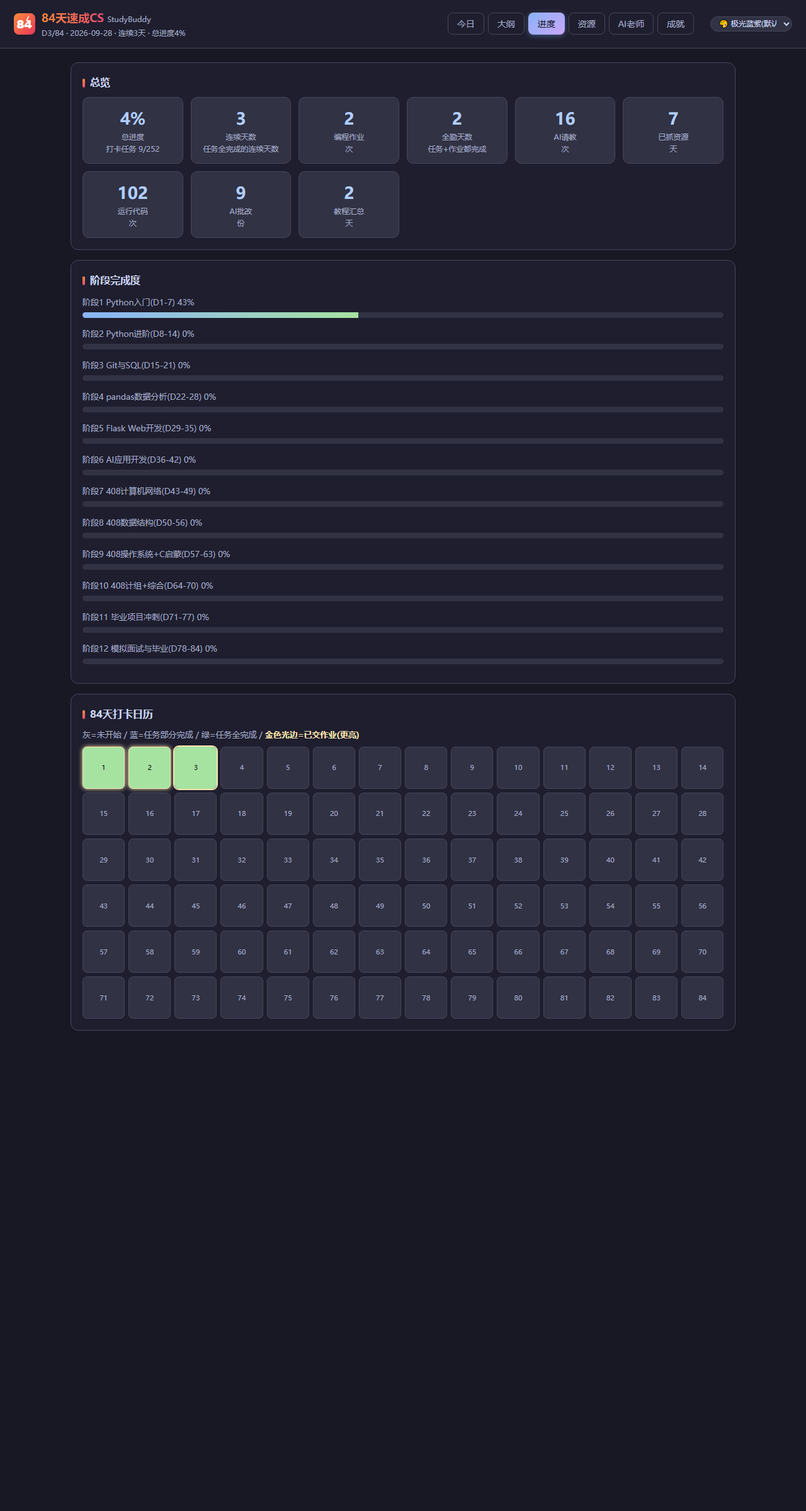
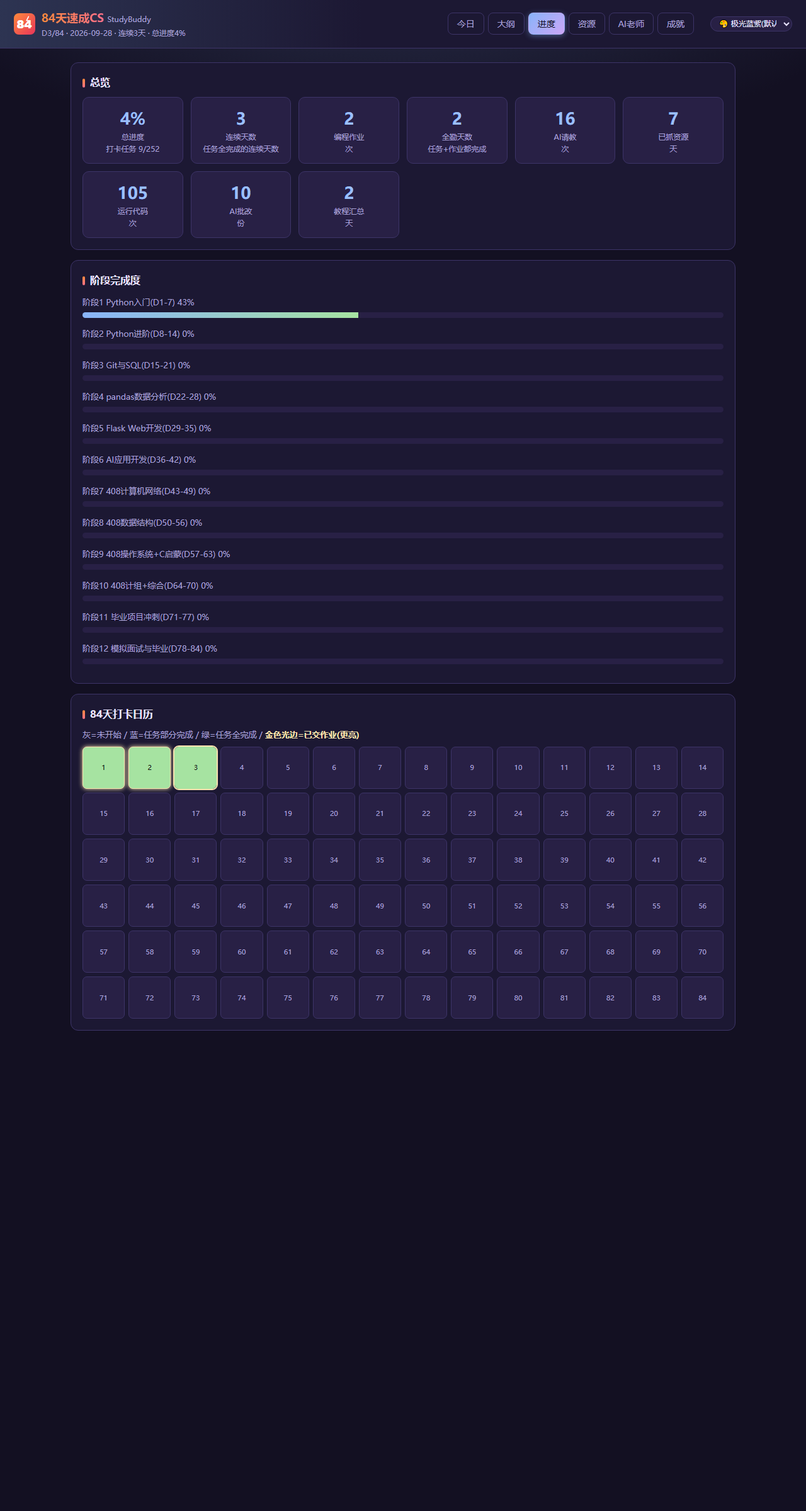
皮肤v2返工：告别灰扑扑——9套主题底色/卡片/边框全部按主色手工强染色(不再照抄调色板的中性灰底)，新增--bg2全页顶部光晕渐变+header横向主色渐变；bad等深色系语义色预烘焙过4.5防引擎洗白，accText检查面收窄保链接鲜艳；594文字对全>=4.51(45变量/主题)；4张截图重拍(meanSat:深蓝0.75/默认0.52/F6空灰带清零)

Changed region(s): [[0.0, 0.0, 0.1875, 0.0312], [0.2812, 0.125, 0.3125, 0.1562], [0.1562, 0.4688, 0.1875, 0.5]]

diff --git a/static/index.html b/static/index.html
@@ -8,128 +8,137 @@
 <style>
 /* ==== THEME-START (generated by gen_themes.js - do not edit by hand) ==== */
 :root{
-  --bg:#181825; --panel:#1e1e2e; --panel2:#313244; --line:#45475a;
-  --fg:#cdd6f4; --dim:#a6adc8; --acc:#89b4fa; --acc2:#cba6f7;
-  --btn-fg:#11111b; --acc-text:#b3cefc; --ok:#a6e3a1; --warn:#f9e2af;
-  --bad:#f38ba8; --btn-good-fg:#0b0d10; --glow:rgba(137,180,250,0.38); --h2a:#ff8a3c;
-  --h2b:#eb4d6e; --code-bg:#11111b; --partial-bg:#3a4765; --partial-fg:#cdd6f4;
-  --full-fg:#0b0d10; --exer-bg:#2f3348; --exer-line:#5d6d92; --exer-fg:#89b4fa;
-  --starter-bg:#11111b; --starter-fg:#a6e3a1; --msg-me:#4a5677; --msg-ai-bg:#444e53;
-  --msg-ai-line:#76957e; --ach-got-bg:#444e53; --toast-bg:#34413e; --toast-fg:#cdd6f4;
-  --hint-bg:#292f45; --hint-line:#677eaa; --hint-fg:#89b4fa; --wbox-bg:#3c383b;
-  --wbox-line:#a89c89; --wbox-fg:#f9e2af; --live-bg:#262b3f; --live-line:#6478a2;
-  --hwglow:#f9e2af; --dayrow-hover:#3c3d50; --out-ok:#a6e3a1; --out-err:#f38ba8;
+  --bg:#131022; --bg2:#2d3452; --panel:#1c1833; --panel2:#282045;
+  --line:#3d3468; --fg:#e9e4ff; --dim:#aaa2d8; --acc:#89b4fa;
+  --acc2:#cba6f7; --btn-fg:#131022; --acc-text:#9bbffb; --ok:#a6e3a1;
+  --warn:#f9e2af; --bad:#f38ba8; --btn-good-fg:#0b0d10; --glow:rgba(137,180,250,0.42);
+  --h2a:#ff8a3c; --h2b:#ff7089; --code-bg:#100d1d; --partial-bg:#364163;
+  --partial-fg:#e9e4ff; --full-fg:#0b0d10; --exer-bg:#2a284b; --exer-line:#58619b;
+  --exer-fg:#89b4fa; --starter-bg:#100d1d; --starter-fg:#a6e3a1; --msg-me:#434978;
+  --msg-ai-bg:#3c3f54; --msg-ai-line:#728c85; --ach-got-bg:#3c3f54; --toast-bg:#303a3b;
+  --toast-fg:#e9e4ff; --hint-bg:#252942; --hint-line:#6374b1; --hint-fg:#89b4fa;
+  --wbox-bg:#383239; --wbox-line:#a4948f; --wbox-fg:#f9e2af; --live-bg:#1b1b31;
+  --live-line:#5f6eaa; --hwglow:#f9e2af; --dayrow-hover:#362e52; --out-ok:#a6e3a1;
+  --out-err:#f38ba8;
 }
 html[data-theme="deepblue"]{
-  --bg:#2e3440; --panel:#353b49; --panel2:#3b4252; --line:#4c566a;
-  --fg:#d8dee9; --dim:#b7bfca; --acc:#88c0d0; --acc2:#81a1c1;
-  --btn-fg:#2e3440; --acc-text:#c8e2e9; --ok:#a3be8c; --warn:#ebcb8b;
-  --bad:#daa2a8; --btn-good-fg:#0b0d10; --glow:rgba(136,192,208,0.4); --h2a:#8fbcbb;
-  --h2b:#88c0d0; --code-bg:#2e3440; --partial-bg:#495e6b; --partial-fg:#d8dee9;
-  --full-fg:#0b0d10; --exer-bg:#3e4958; --exer-line:#617b8e; --exer-fg:#88c0d0;
-  --starter-bg:#2e3440; --starter-fg:#a3be8c; --msg-me:#506474; --msg-ai-bg:#4c565b;
-  --msg-ai-line:#788a7b; --ach-got-bg:#4c565b; --toast-bg:#45504f; --toast-fg:#d8dee9;
-  --hint-bg:#3c4956; --hint-line:#6a8b9d; --hint-fg:#88c0d0; --wbox-bg:#4c4c4c;
-  --wbox-line:#a3967c; --wbox-fg:#ebcb8b; --live-bg:#394551; --live-line:#678698;
-  --hwglow:#ebcb8b; --dayrow-hover:#464d5d; --out-ok:#a3be8c; --out-err:#daa2a8;
+  --bg:#081228; --bg2:#24384d; --panel:#0c1b3a; --panel2:#122752;
+  --line:#20406f; --fg:#dce8ff; --dim:#9db1d6; --acc:#88c0d0;
+  --acc2:#5e81ac; --btn-fg:#081228; --acc-text:#9bcad8; --ok:#a3be8c;
+  --warn:#ebcb8b; --bad:#ff8585; --btn-good-fg:#0b0d10; --glow:rgba(136,192,208,0.42);
+  --h2a:#8fbcbb; --h2b:#88c0d0; --code-bg:#081228; --partial-bg:#2e465a;
+  --partial-fg:#dce8ff; --full-fg:#0b0d10; --exer-bg:#192e51; --exer-line:#446d91;
+  --exer-fg:#88c0d0; --starter-bg:#081228; --starter-fg:#a3be8c; --msg-me:#335275;
+  --msg-ai-bg:#293f5b; --msg-ai-line:#627f7e; --ach-got-bg:#293f5b; --toast-bg:#27343c;
+  --toast-fg:#dce8ff; --hint-bg:#1b2c41; --hint-line:#5480a0; --hint-fg:#88c0d0;
+  --wbox-bg:#2c3038; --wbox-line:#908c7e; --wbox-fg:#ebcb8b; --live-bg:#111e34;
+  --live-line:#4f7a9b; --hwglow:#ebcb8b; --dayrow-hover:#20355e; --out-ok:#a3be8c;
+  --out-err:#ff8585;
 }
 html[data-theme="inkgreen"]{
-  --bg:#232a2e; --panel:#2d353b; --panel2:#343f44; --line:#475258;
-  --fg:#d3c6aa; --dim:#afb8af; --acc:#a7c080; --acc2:#7fbbb3;
-  --btn-fg:#232a2e; --acc-text:#bbce9c; --ok:#83c092; --warn:#dbbc7f;
-  --bad:#ef8c90; --btn-good-fg:#0b0d10; --glow:rgba(167,192,128,0.4); --h2a:#a7c080;
-  --h2b:#7fbbb3; --code-bg:#232a2e; --partial-bg:#4a5746; --partial-fg:#d3c6aa;
-  --full-fg:#0b0d10; --exer-bg:#3a4545; --exer-line:#697966; --exer-fg:#a7c080;
-  --starter-bg:#232a2e; --starter-fg:#83c092; --msg-me:#49564f; --msg-ai-bg:#415450;
-  --msg-ai-line:#658975; --ach-got-bg:#415450; --toast-bg:#364842; --toast-fg:#d3c6aa;
-  --hint-bg:#37413a; --hint-line:#77896c; --hint-fg:#a7c080; --wbox-bg:#40413b;
-  --wbox-line:#988c6d; --wbox-fg:#dbbc7f; --live-bg:#333c38; --live-line:#72846a;
-  --hwglow:#dbbc7f; --dayrow-hover:#3f484b; --out-ok:#83c092; --out-err:#ef8c90;
+  --bg:#0c1610; --bg2:#2e3b29; --panel:#11241a; --panel2:#183426;
+  --line:#2a5038; --fg:#e0f2dd; --dim:#a6bfa8; --acc:#a7c080;
+  --acc2:#7fbbb3; --btn-fg:#0c1610; --acc-text:#bdd0a0; --ok:#83c092;
+  --warn:#dbbc7f; --bad:#ef8a8e; --btn-good-fg:#0b0d10; --glow:rgba(167,192,128,0.42);
+  --h2a:#a7c080; --h2b:#7fbbb3; --code-bg:#0c1610; --partial-bg:#3b4932;
+  --partial-fg:#e0f2dd; --full-fg:#0b0d10; --exer-bg:#203828; --exer-line:#567751;
+  --exer-fg:#a7c080; --starter-bg:#0c1610; --starter-fg:#83c092; --msg-me:#405b3f;
+  --msg-ai-bg:#294a37; --msg-ai-line:#578865; --ach-got-bg:#294a37; --toast-bg:#24382a;
+  --toast-fg:#e0f2dd; --hint-bg:#233021; --hint-line:#69885c; --hint-fg:#a7c080;
+  --wbox-bg:#2d3122; --wbox-line:#8b8b5f; --wbox-fg:#dbbc7f; --live-bg:#172218;
+  --live-line:#628258; --hwglow:#dbbc7f; --dayrow-hover:#264133; --out-ok:#83c092;
+  --out-err:#ef8a8e;
 }
 html[data-theme="lavender"]{
-  --bg:#181926; --panel:#24273a; --panel2:#363a4f; --line:#494d64;
-  --fg:#cad3f5; --dim:#abb3cf; --acc:#b7bdf8; --acc2:#c6a0f6;
-  --btn-fg:#181926; --acc-text:#cdd1fa; --ok:#a6da95; --warn:#eed49f;
-  --bad:#ed8796; --btn-good-fg:#0b0d10; --glow:rgba(183,189,248,0.4); --h2a:#b7bdf8;
-  --h2b:#f5bde6; --code-bg:#181926; --partial-bg:#484a65; --partial-fg:#cad3f5;
-  --full-fg:#0b0d10; --exer-bg:#383c53; --exer-line:#707498; --exer-fg:#b7bdf8;
-  --starter-bg:#181926; --starter-fg:#a6da95; --msg-me:#555a78; --msg-ai-bg:#48545a;
-  --msg-ai-line:#78947d; --ach-got-bg:#48545a; --toast-bg:#34403c; --toast-fg:#cad3f5;
-  --hint-bg:#303246; --hint-line:#8085ae; --hint-fg:#b7bdf8; --wbox-bg:#3a3739;
-  --wbox-line:#a49784; --wbox-fg:#eed49f; --live-bg:#2b2d3f; --live-line:#7b7fa7;
-  --hwglow:#eed49f; --dayrow-hover:#40455b; --out-ok:#a6da95; --out-err:#ed8796;
+  --bg:#151129; --bg2:#393757; --panel:#1e1940; --panel2:#2b2360;
+  --line:#433a85; --fg:#e8e2ff; --dim:#aea6dd; --acc:#b7bdf8;
+  --acc2:#c6a0f6; --btn-fg:#151129; --acc-text:#c2c7f9; --ok:#a6da95;
+  --warn:#eed49f; --bad:#ed8796; --btn-good-fg:#0b0d10; --glow:rgba(183,189,248,0.42);
+  --h2a:#b7bdf8; --h2b:#f5bde6; --code-bg:#151129; --partial-bg:#464567;
+  --partial-fg:#e8e2ff; --full-fg:#0b0d10; --exer-bg:#302b5d; --exer-line:#6c68ad;
+  --exer-fg:#b7bdf8; --starter-bg:#151129; --starter-fg:#a6da95; --msg-me:#524e8b;
+  --msg-ai-bg:#3f4068; --msg-ai-line:#758a8d; --ach-got-bg:#3f4068; --toast-bg:#32393f;
+  --toast-fg:#e8e2ff; --hint-bg:#2d2b48; --hint-line:#7d7cbf; --hint-fg:#b7bdf8;
+  --wbox-bg:#38303c; --wbox-line:#a18f93; --wbox-fg:#eed49f; --live-bg:#201d37;
+  --live-line:#7775b9; --hwglow:#eed49f; --dayrow-hover:#38306b; --out-ok:#a6da95;
+  --out-err:#ed8796;
 }
 html[data-theme="morandi"]{
-  --bg:#232634; --panel:#303446; --panel2:#414559; --line:#51576d;
-  --fg:#c6d0f5; --dim:#bbc1da; --acc:#8caaee; --acc2:#ca9ee6;
-  --btn-fg:#232634; --acc-text:#c1d1f6; --ok:#a6d189; --warn:#e5c890;
-  --bad:#eda0a1; --btn-good-fg:#0b0d10; --glow:rgba(140,170,238,0.38); --h2a:#8caaee;
-  --h2b:#ca9ee6; --code-bg:#232634; --partial-bg:#434e6c; --partial-fg:#c6d0f5;
-  --full-fg:#0b0d10; --exer-bg:#3f455c; --exer-line:#66749a; --exer-fg:#a9bdf2;
-  --starter-bg:#232634; --starter-fg:#a6d189; --msg-me:#505976; --msg-ai-bg:#515b61;
-  --msg-ai-line:#7c947b; --ach-got-bg:#515b61; --toast-bg:#3d4845; --toast-fg:#c6d0f5;
-  --hint-bg:#333a50; --hint-line:#6f81ae; --hint-fg:#8caaee; --wbox-bg:#424043;
-  --wbox-line:#a29580; --wbox-fg:#e5c890; --live-bg:#30364a; --live-line:#6c7ca7;
-  --hwglow:#e5c890; --dayrow-hover:#4a4f64; --out-ok:#a6d189; --out-err:#eda0a1;
+  --bg:#1b1d2c; --bg2:#343c57; --panel:#252840; --panel2:#313454;
+  --line:#474b7e; --fg:#d8dcf7; --dim:#aab0d8; --acc:#8caaee;
+  --acc2:#ca9ee6; --btn-fg:#1b1d2c; --acc-text:#bccdf5; --ok:#a6d189;
+  --warn:#e5c890; --bad:#f09390; --btn-good-fg:#0b0d10; --glow:rgba(140,170,238,0.4);
+  --h2a:#8caaee; --h2b:#ca9ee6; --code-bg:#1b1d2c; --partial-bg:#3d4766;
+  --partial-fg:#d8dcf7; --full-fg:#0b0d10; --exer-bg:#333857; --exer-line:#5f6ca5;
+  --exer-fg:#8caaee; --starter-bg:#1b1d2c; --starter-fg:#a6d189; --msg-me:#4a557f;
+  --msg-ai-bg:#444d5c; --msg-ai-line:#778e84; --ach-got-bg:#444d5c; --toast-bg:#37413f;
+  --toast-fg:#d8dcf7; --hint-bg:#2c3249; --hint-line:#6a7bb6; --hint-fg:#8caaee;
+  --wbox-bg:#3b383c; --wbox-line:#9e9088; --wbox-fg:#e5c890; --live-bg:#23273a;
+  --live-line:#6676b0; --hwglow:#e5c890; --dayrow-hover:#3d405f; --out-ok:#a6d189;
+  --out-err:#f09390;
 }
 html[data-theme="mono"]{
-  --bg:#0d1117; --panel:#161b22; --panel2:#21262d; --line:#30363d;
-  --fg:#e6edf3; --dim:#949da6; --acc:#f0f6fc; --acc2:#8b949e;
-  --btn-fg:#0d1117; --acc-text:#f0f6fc; --ok:#3fb950; --warn:#d29922;
-  --bad:#f96059; --btn-good-fg:#0b0d10; --glow:rgba(240,246,252,0.22); --h2a:#f0f6fc;
-  --h2b:#8b949e; --code-bg:#010409; --partial-bg:#51565c; --partial-fg:#e6edf3;
-  --full-fg:#0b0d10; --exer-bg:#2d3239; --exer-line:#737980; --exer-fg:#f0f6fc;
-  --starter-bg:#010409; --starter-fg:#3fb950; --msg-me:#5b6067; --msg-ai-bg:#263e33;
-  --msg-ai-line:#387847; --ach-got-bg:#263e33; --toast-bg:#173322; --toast-fg:#e6edf3;
-  --hint-bg:#2f3339; --hint-line:#90969d; --hint-fg:#f0f6fc; --wbox-bg:#2d2719;
-  --wbox-line:#896c2e; --wbox-fg:#d29922; --live-bg:#282c32; --live-line:#868c93;
-  --hwglow:#d29922; --dayrow-hover:#2f343b; --out-ok:#3fb950; --out-err:#f96059;
+  --bg:#0a0c10; --bg2:#3d3f44; --panel:#13171d; --panel2:#1d232c;
+  --line:#2f3743; --fg:#f1f4f8; --dim:#a6aeb8; --acc:#f0f6fc;
+  --acc2:#8b949e; --btn-fg:#0a0c10; --acc-text:#f0f6fc; --ok:#3fb950;
+  --warn:#d29922; --bad:#f85149; --btn-good-fg:#0b0d10; --glow:rgba(240,246,252,0.2);
+  --h2a:#f0f6fc; --h2b:#a8b0ba; --code-bg:#07090c; --partial-bg:#4f5257;
+  --partial-fg:#f1f4f8; --full-fg:#0b0d10; --exer-bg:#292e36; --exer-line:#737a84;
+  --exer-fg:#f0f6fc; --starter-bg:#07090c; --starter-fg:#3fb950; --msg-me:#585e66;
+  --msg-ai-bg:#223b32; --msg-ai-line:#37784a; --ach-got-bg:#223b32; --toast-bg:#152f1d;
+  --toast-fg:#f1f4f8; --hint-bg:#2d2f33; --hint-line:#9097a0; --hint-fg:#f0f6fc;
+  --wbox-bg:#2a2313; --wbox-line:#896d31; --wbox-fg:#d29922; --live-bg:#1a1c21;
+  --live-line:#868d96; --hwglow:#d29922; --dayrow-hover:#2c323a; --out-ok:#3fb950;
+  --out-err:#f85149;
 }
 html[data-theme="gold"]{
-  --bg:#282828; --panel:#32302f; --panel2:#3c3836; --line:#504945;
-  --fg:#ebdbb2; --dim:#bcb0a0; --acc:#fabd2f; --acc2:#fe8019;
-  --btn-fg:#1d2021; --acc-text:#fcd780; --ok:#b8bb26; --warn:#d79921;
-  --bad:#fc8071; --btn-good-fg:#0b0d10; --glow:rgba(250,189,47,0.4); --h2a:#fabd2f;
-  --h2b:#fe8019; --code-bg:#1d2021; --partial-bg:#67552a; --partial-fg:#ebdbb2;
-  --full-fg:#0b0d10; --exer-bg:#473f32; --exer-line:#8c723d; --exer-fg:#fabd2f;
-  --starter-bg:#1d2021; --starter-fg:#b8bb26; --msg-me:#715d34; --msg-ai-bg:#504d33;
-  --msg-ai-line:#848236; --ach-got-bg:#504d33; --toast-bg:#454528; --toast-fg:#ebdbb2;
-  --hint-bg:#483e29; --hint-line:#a5833a; --hint-fg:#fabd2f; --wbox-bg:#443a27;
-  --wbox-line:#9a7531; --wbox-fg:#e1ba6a; --live-bg:#413a29; --live-line:#9d7d3b;
-  --hwglow:#d79921; --dayrow-hover:#48433f; --out-ok:#b8bb26; --out-err:#fc8071;
+  --bg:#171004; --bg2:#49360d; --panel:#231a08; --panel2:#32250d;
+  --line:#52401a; --fg:#f8e9c2; --dim:#c9b687; --acc:#fabd2f;
+  --acc2:#fe8019; --btn-fg:#171004; --acc-text:#fabf35; --ok:#b8bb26;
+  --warn:#d79921; --bad:#ff7d68; --btn-good-fg:#0b0d10; --glow:rgba(250,189,47,0.45);
+  --h2a:#fabd2f; --h2b:#fe8019; --code-bg:#120c03; --partial-bg:#5b4411;
+  --partial-fg:#f8e9c2; --full-fg:#0b0d10; --exer-bg:#3b2c0d; --exer-line:#8d6c21;
+  --exer-fg:#fabd2f; --starter-bg:#120c03; --starter-fg:#b8bb26; --msg-me:#6a5017;
+  --msg-ai-bg:#473d11; --msg-ai-line:#857e20; --ach-got-bg:#473d11; --toast-bg:#37320b;
+  --toast-fg:#f8e9c2; --hint-bg:#392a0a; --hint-line:#a67f25; --hint-fg:#fabd2f;
+  --wbox-bg:#362609; --wbox-line:#9b711e; --wbox-fg:#d79921; --live-bg:#271c07;
+  --live-line:#9e7823; --hwglow:#d79921; --dayrow-hover:#40331a; --out-ok:#b8bb26;
+  --out-err:#ff7d68;
 }
 html[data-theme="wine"]{
-  --bg:#21222c; --panel:#282a36; --panel2:#343746; --line:#44475a;
-  --fg:#f8f8f2; --dim:#a9b2cd; --acc:#ff5555; --acc2:#ff79c6;
-  --btn-fg:#0b0d10; --acc-text:#ffaeae; --ok:#50fa7b; --warn:#f1fa8c;
-  --bad:#ff7676; --btn-good-fg:#0b0d10; --glow:rgba(255,85,85,0.4); --h2a:#ff5656;
-  --h2b:#ff79c6; --code-bg:#191a21; --partial-bg:#643138; --partial-fg:#f8f8f2;
-  --full-fg:#0b0d10; --exer-bg:#3f3340; --exer-line:#854c58; --exer-fg:#fca7a4;
-  --starter-bg:#191a21; --starter-fg:#50fa7b; --msg-me:#6d3f4a; --msg-ai-bg:#38564e;
-  --msg-ai-line:#4aa16b; --ach-got-bg:#38564e; --toast-bg:#2a4d3c; --toast-fg:#f8f8f2;
-  --hint-bg:#422a32; --hint-line:#a24e58; --hint-fg:#fca7a4; --wbox-bg:#42453b;
-  --wbox-line:#a3a976; --wbox-fg:#f1fa8c; --live-bg:#3c2831; --live-line:#984d58;
-  --hwglow:#f1fa8c; --dayrow-hover:#424552; --out-ok:#50fa7b; --out-err:#ff7676;
+  --bg:#190a0e; --bg2:#4c1b1e; --panel:#250f16; --panel2:#35151f;
+  --line:#5c2632; --fg:#ffe4e7; --dim:#d3a0a6; --acc:#ff5555;
+  --acc2:#ff79c6; --btn-fg:#190a0e; --acc-text:#ff8787; --ok:#50fa7b;
+  --warn:#f1fa8c; --bad:#ff8585; --btn-good-fg:#0b0d10; --glow:rgba(255,85,85,0.42);
+  --h2a:#ff6b6b; --h2b:#ff79c6; --code-bg:#140809; --partial-bg:#5e2123;
+  --partial-fg:#ffe4e7; --full-fg:#0b0d10; --exer-bg:#3e171f; --exer-line:#95363e;
+  --exer-fg:#ff5555; --starter-bg:#140809; --starter-fg:#50fa7b; --msg-me:#6e272e;
+  --msg-ai-bg:#393a2e; --msg-ai-line:#569057; --ach-got-bg:#393a2e; --toast-bg:#243a24;
+  --toast-fg:#ffe4e7; --hint-bg:#3c1519; --hint-line:#ae3e44; --hint-fg:#ff5555;
+  --wbox-bg:#3c3022; --wbox-line:#ae9b64; --wbox-fg:#f1fa8c; --live-bg:#290f13;
+  --live-line:#a53b42; --hwglow:#f1fa8c; --dayrow-hover:#43232d; --out-ok:#50fa7b;
+  --out-err:#ff8585;
 }
 html[data-theme="champagne"]{
-  --bg:#f4f0d9; --panel:#fdf6e3; --panel2:#efebd4; --line:#ddd2b8;
-  --fg:#3a332a; --dim:#6a6051; --acc:#b08d57; --acc2:#d4b483;
-  --btn-fg:#2a2113; --acc-text:#69573c; --ok:#496e4d; --warn:#7b6221;
-  --bad:#a14c40; --btn-good-fg:#ffffff; --glow:rgba(176,141,87,0.35); --h2a:#816945;
-  --h2b:#876738; --code-bg:#fdfbf6; --partial-bg:#e0d2b2; --partial-fg:#3a332a;
-  --full-fg:#ffffff; --exer-bg:#f0e9d1; --exer-line:#cdba96; --exer-fg:#756041;
-  --starter-bg:#fdfbf6; --starter-fg:#496e4d; --msg-me:#ddd1b1; --msg-ai-bg:#d4d7be;
-  --msg-ai-line:#93a083; --ach-got-bg:#d4d7be; --toast-bg:#d2d6bd; --toast-fg:#3a332a;
-  --hint-bg:#eae1c6; --hint-line:#c7b088; --hint-fg:#756041; --wbox-bg:#e1d9bc;
-  --wbox-line:#a79565; --wbox-fg:#5b4b26; --live-bg:#ece4c9; --live-line:#c9b38c;
-  --hwglow:#7b6221; --dayrow-hover:#e2dec8; --out-ok:#496e4d; --out-err:#a14c40;
+  --bg:#f7f0d7; --bg2:#e7dabb; --panel:#fffbee; --panel2:#f2e9cd;
+  --line:#dccca0; --fg:#3f3423; --dim:#665a40; --acc:#b08d57;
+  --acc2:#d4b483; --btn-fg:#2a2113; --acc-text:#6a5637; --ok:#42634a;
+  --warn:#75601f; --bad:#9c4a3e; --btn-good-fg:#ffffff; --glow:rgba(176,141,87,0.4);
+  --h2a:#6f5b3a; --h2b:#7c592c; --code-bg:#fdfaf1; --partial-bg:#e2d2b1;
+  --partial-fg:#3f3423; --full-fg:#ffffff; --exer-bg:#f3ead3; --exer-line:#cdb686;
+  --exer-fg:#78613d; --starter-bg:#fdfaf1; --starter-fg:#42634a; --msg-me:#e0cfac;
+  --msg-ai-bg:#d6d4b8; --msg-ai-line:#8f9875; --ach-got-bg:#d6d4b8; --toast-bg:#d3d4bb;
+  --toast-fg:#3f3423; --hint-bg:#ece1c4; --hint-line:#c6ad7c; --hint-fg:#78613d;
+  --wbox-bg:#e2d9ba; --wbox-line:#a39159; --wbox-fg:#5a4a21; --live-bg:#f2e9ce;
+  --live-line:#c8b07f; --hwglow:#75601f; --dayrow-hover:#e5dcc1; --out-ok:#42634a;
+  --out-err:#9c4a3e;
 }
 /* ==== THEME-END ==== */
 *{box-sizing:border-box;margin:0;padding:0}
-body{background:var(--bg);color:var(--fg);font:15px/1.6 "Microsoft YaHei",system-ui,sans-serif}
+body{background:radial-gradient(1200px 560px at 50% -140px,var(--bg2) 0%,var(--bg) 70%);background-attachment:fixed;color:var(--fg);font:15px/1.6 "Microsoft YaHei",system-ui,sans-serif}
 a{color:var(--acc-text);text-decoration:none}
 a:hover{text-decoration:underline}
-header{display:flex;align-items:center;gap:16px;padding:14px 22px;background:var(--panel);border-bottom:1px solid var(--line);position:sticky;top:0;z-index:5}
+header{display:flex;align-items:center;gap:16px;padding:14px 22px;background:linear-gradient(90deg,var(--bg2),var(--panel) 45%);border-bottom:1px solid var(--line);position:sticky;top:0;z-index:5}
 header h1{font-size:18px}
 header .sub{color:var(--dim);font-size:12px}
 nav{display:flex;gap:6px;margin-left:auto}

diff --git a/gen_themes.js b/gen_themes.js
@@ -21,19 +21,23 @@ const mix = (a, b, p) => a.map((v, i) => v + (b[i] - v) * p);
 const DARK = hx('#0b0d10'), WHITE = hx('#ffffff');
 const rgba = (c, a) => `rgba(${c[0]},${c[1]},${c[2]},${a})`;
 
-// ---------- palettes (hex from official sources) ----------
-// Catppuccin Mocha / Nord(dev) / Everforest Dark / Catppuccin Macchiato /
-// Catppuccin Frappe / GitHub Primer Dark / Gruvbox Dark / Dracula / Solarized-warm light
+// ---------- palettes + strongly tinted surfaces ----------
+// Accents/semantic colors from official palettes (Catppuccin Mocha/Macchiato/Frappe,
+// Nord, Everforest, GitHub Primer Dark, Gruvbox, Dracula, Solarized).
+// SURFACES (bg/panel/panel2/line) are deliberately pushed hard toward each theme's
+// hue (hand-tinted, low luminance) so skins read as clearly COLORED, not gray.
+// Dark-surface semantic colors are pre-baked light enough to pass 4.5:1 so the
+// engine never gray-washes them. bg2 = full-page radial glow + header gradient.
 const SPECS = {
-  root: { label: 'default Mocha', bg: '#181825', panel: '#1e1e2e', panel2: '#313244', line: '#45475a', fg: '#cdd6f4', dim: '#a6adc8', acc: '#89b4fa', acc2: '#cba6f7', btnFg: '#11111b', ok: '#a6e3a1', warn: '#f9e2af', bad: '#f38ba8', h2a: '#ff8a3c', h2b: '#e8355a', codeBg: '#11111b', glowA: 0.38 },
-  deepblue: { label: 'Nord', bg: '#2e3440', panel: '#353b49', panel2: '#3b4252', line: '#4c566a', fg: '#d8dee9', dim: '#9aa5b5', acc: '#88c0d0', acc2: '#81a1c1', btnFg: '#2e3440', ok: '#a3be8c', warn: '#ebcb8b', bad: '#bf616a', h2a: '#8fbcbb', h2b: '#88c0d0', glowA: 0.40 },
-  inkgreen: { label: 'Everforest', bg: '#232a2e', panel: '#2d353b', panel2: '#343f44', line: '#475258', fg: '#d3c6aa', dim: '#a6b0a6', acc: '#a7c080', acc2: '#7fbbb3', btnFg: '#232a2e', ok: '#83c092', warn: '#dbbc7f', bad: '#ef8a8e', h2a: '#a7c080', h2b: '#7fbbb3', glowA: 0.40 },
-  lavender: { label: 'Macchiato', bg: '#181926', panel: '#24273a', panel2: '#363a4f', line: '#494d64', fg: '#cad3f5', dim: '#a5adcb', acc: '#b7bdf8', acc2: '#c6a0f6', btnFg: '#181926', ok: '#a6da95', warn: '#eed49f', bad: '#ed8796', h2a: '#b7bdf8', h2b: '#f5bde6', glowA: 0.40 },
-  morandi: { label: 'Frappe', bg: '#232634', panel: '#303446', panel2: '#414559', line: '#51576d', fg: '#c6d0f5', dim: '#a5adce', acc: '#8caaee', acc2: '#ca9ee6', btnFg: '#232634', ok: '#a6d189', warn: '#e5c890', bad: '#e78284', h2a: '#8caaee', h2b: '#ca9ee6', glowA: 0.38 },
-  mono: { label: 'PrimerDark', bg: '#0d1117', panel: '#161b22', panel2: '#21262d', line: '#30363d', fg: '#e6edf3', dim: '#8b949e', acc: '#f0f6fc', acc2: '#8b949e', btnFg: '#0d1117', ok: '#3fb950', warn: '#d29922', bad: '#f85149', h2a: '#f0f6fc', h2b: '#8b949e', codeBg: '#010409', glowA: 0.22 },
-  gold: { label: 'Gruvbox', bg: '#282828', panel: '#32302f', panel2: '#3c3836', line: '#504945', fg: '#ebdbb2', dim: '#a89984', acc: '#fabd2f', acc2: '#fe8019', btnFg: '#1d2021', ok: '#b8bb26', warn: '#d79921', bad: '#fb4934', h2a: '#fabd2f', h2b: '#fe8019', codeBg: '#1d2021', glowA: 0.40 },
-  wine: { label: 'Dracula', bg: '#21222c', panel: '#282a36', panel2: '#343746', line: '#44475a', fg: '#f8f8f2', dim: '#6272a4', acc: '#ff5555', acc2: '#ff79c6', btnFg: '#0b0d10', ok: '#50fa7b', warn: '#f1fa8c', bad: '#ff5555', h2a: '#ff5555', h2b: '#ff79c6', codeBg: '#191a21', glowA: 0.40 },
-  champagne: { label: 'SolarizedWarm', bg: '#f4f0d9', panel: '#fdf6e3', panel2: '#efebd4', line: '#ddd2b8', fg: '#3a332a', dim: '#8a7f6c', acc: '#b08d57', acc2: '#d4b483', btnFg: '#2a2113', ok: '#4a7350', warn: '#8a6d1f', bad: '#ab4f42', h2a: '#b08d57', h2b: '#a67c3d', codeBg: '#fdfbf6', glowA: 0.35 }
+  root: { label: 'MochaViolet', bg: '#131022', panel: '#1c1833', panel2: '#282045', line: '#3d3468', fg: '#e9e4ff', dim: '#aaa2d8', acc: '#89b4fa', acc2: '#cba6f7', btnFg: '#131022', ok: '#a6e3a1', warn: '#f9e2af', bad: '#f38ba8', h2a: '#ff8a3c', h2b: '#ff7089', codeBg: '#100d1d', glowA: 0.42 },
+  deepblue: { label: 'NordNavy', bg: '#081228', panel: '#0c1b3a', panel2: '#122752', line: '#20406f', fg: '#dce8ff', dim: '#9db1d6', acc: '#88c0d0', acc2: '#5e81ac', btnFg: '#081228', ok: '#a3be8c', warn: '#ebcb8b', bad: '#ff8585', h2a: '#8fbcbb', h2b: '#88c0d0', glowA: 0.42 },
+  inkgreen: { label: 'Forest', bg: '#0c1610', panel: '#11241a', panel2: '#183426', line: '#2a5038', fg: '#e0f2dd', dim: '#a6bfa8', acc: '#a7c080', acc2: '#7fbbb3', btnFg: '#0c1610', ok: '#83c092', warn: '#dbbc7f', bad: '#ef8a8e', h2a: '#a7c080', h2b: '#7fbbb3', glowA: 0.42 },
+  lavender: { label: 'Violet', bg: '#151129', panel: '#1e1940', panel2: '#2b2360', line: '#433a85', fg: '#e8e2ff', dim: '#aea6dd', acc: '#b7bdf8', acc2: '#c6a0f6', btnFg: '#151129', ok: '#a6da95', warn: '#eed49f', bad: '#ed8796', h2a: '#b7bdf8', h2b: '#f5bde6', glowA: 0.42 },
+  morandi: { label: 'DustyBlue', bg: '#1b1d2c', panel: '#252840', panel2: '#313454', line: '#474b7e', fg: '#d8dcf7', dim: '#aab0d8', acc: '#8caaee', acc2: '#ca9ee6', btnFg: '#1b1d2c', ok: '#a6d189', warn: '#e5c890', bad: '#f09390', h2a: '#8caaee', h2b: '#ca9ee6', glowA: 0.40 },
+  mono: { label: 'Neutral', bg: '#0a0c10', panel: '#13171d', panel2: '#1d232c', line: '#2f3743', fg: '#f1f4f8', dim: '#a6aeb8', acc: '#f0f6fc', acc2: '#8b949e', btnFg: '#0a0c10', ok: '#3fb950', warn: '#d29922', bad: '#f85149', h2a: '#f0f6fc', h2b: '#a8b0ba', codeBg: '#07090c', glowA: 0.20 },
+  gold: { label: 'GoldenBrown', bg: '#171004', panel: '#231a08', panel2: '#32250d', line: '#52401a', fg: '#f8e9c2', dim: '#c9b687', acc: '#fabd2f', acc2: '#fe8019', btnFg: '#171004', ok: '#b8bb26', warn: '#d79921', bad: '#ff7d68', h2a: '#fabd2f', h2b: '#fe8019', codeBg: '#120c03', glowA: 0.45 },
+  wine: { label: 'WineRed', bg: '#190a0e', panel: '#250f16', panel2: '#35151f', line: '#5c2632', fg: '#ffe4e7', dim: '#d3a0a6', acc: '#ff5555', acc2: '#ff79c6', btnFg: '#190a0e', ok: '#50fa7b', warn: '#f1fa8c', bad: '#ff8585', h2a: '#ff6b6b', h2b: '#ff79c6', codeBg: '#140809', glowA: 0.42 },
+  champagne: { label: 'GoldenCream', bg: '#f7f0d7', panel: '#fffbee', panel2: '#f2e9cd', line: '#dccca0', fg: '#3f3423', dim: '#665a40', acc: '#b08d57', acc2: '#d4b483', btnFg: '#2a2113', ok: '#42634a', warn: '#75601f', bad: '#9c4a3e', h2a: '#6f5b3a', h2b: '#7d5a2c', codeBg: '#fdfaf1', glowA: 0.40 }
 };
 
 // ---------- engine ----------
@@ -73,9 +77,9 @@ function build(key, sp) {
     return best;
   };
 
-  // a) static + liveBg
+  // a) static + liveBg (small acc mix: keeps surface dark so red text stays vivid)
   S.codeBg = S.codeBg || bg;
-  S.liveBg = surf(p => mix(bg, S.acc, p), 0.12);
+  S.liveBg = surf(p => mix(bg, S.acc, p), 0.07);
   const TXT = [bg, S.panel, S.panel2, S.codeBg, S.liveBg];
 
   // b) semantic text colors first (later surfaces depend on them)
@@ -84,6 +88,7 @@ function build(key, sp) {
   S.bad = fix('bad', S.bad, TXT);
 
   // c) remaining derived surfaces (fg must stay >= 4.5 on each)
+  S.bg2 = surf(p => mix(bg, S.acc, p), 0.22);     // page glow + header gradient wash
   S.partialBg = surf(p => mix(bg, S.acc, p), 0.30);
   S.exerBg = surf(p => mix(mix(S.panel, S.panel2, 0.5), S.acc, p), 0.08);
   S.msgMe = surf(p => mix(S.panel2, S.acc, p), 0.28);
@@ -95,11 +100,11 @@ function build(key, sp) {
   S.dayrowHover = surf(p => mix(S.panel2, fg, p), 0.07);
   S.starterBg = S.codeBg;
 
-  // d) dim / h2 gradient text
-  const DIM_S = [bg, S.panel, S.panel2, S.codeBg, S.liveBg, S.dayrowHover, S.exerBg];
+  // d) dim / h2 gradient text (brand text sits on header bg2 wash)
+  const DIM_S = [bg, S.panel, S.panel2, S.codeBg, S.liveBg, S.dayrowHover, S.exerBg, S.bg2];
   S.dim = fix('dim', S.dim, DIM_S);
-  S.h2a = fix('h2a', S.h2a, [S.panel, bg]);
-  S.h2b = fix('h2b', S.h2b, [S.panel, bg]);
+  S.h2a = fix('h2a', S.h2a, [S.panel, bg, S.bg2]);
+  S.h2b = fix('h2b', S.h2b, [S.panel, bg, S.bg2]);
 
   // e) borders / tints
   S.exerLine = mix(S.line, S.acc, 0.35);
@@ -110,8 +115,10 @@ function build(key, sp) {
   S.hwglow = S.warn;
   S.glow = rgba(S.acc, S.glowA);
 
-  // f) accent-as-text (links etc) - must pass on every surface it can appear on
-  const ACC_S = [bg, S.panel, S.panel2, S.codeBg, S.liveBg, S.dayrowHover, S.exerBg, S.msgMe, S.msgAiBg, S.hintBg, S.wboxBg, S.toastBg, S.achGotBg, S.partialBg, S.starterBg];
+  // f) accent-as-text (links etc) - only surfaces where links actually appear
+  //    (NOT partialBg/starterBg: calendar cells and code blocks hold no links,
+  //     including them would gray-wash accText through the 4.55 margin)
+  const ACC_S = [bg, S.panel, S.panel2, S.codeBg, S.liveBg, S.dayrowHover, S.exerBg, S.msgMe, S.msgAiBg, S.hintBg, S.wboxBg, S.toastBg, S.achGotBg, S.bg2];
   S.accText = fix('accText', S.acc, ACC_S);
 
   // g) specialty text colors (chain ends at fg where fg is guaranteed on that surface)
@@ -141,7 +148,7 @@ function build(key, sp) {
   // i) pair report
   const pairs = [];
   const add = (name, t, b) => pairs.push({ name, t, b, r: cr(t, b) });
-  const FG_S = [bg, S.panel, S.panel2, S.codeBg, S.liveBg, S.dayrowHover, S.exerBg, S.starterBg, S.msgMe, S.msgAiBg, S.achGotBg, S.partialBg, S.toastBg, S.hintBg, S.wboxBg];
+  const FG_S = [bg, S.panel, S.panel2, S.codeBg, S.liveBg, S.dayrowHover, S.exerBg, S.starterBg, S.msgMe, S.msgAiBg, S.achGotBg, S.partialBg, S.toastBg, S.hintBg, S.wboxBg, S.bg2];
   FG_S.forEach((s, i) => add(`fg@s${i}`, fg, s));
   DIM_S.forEach((s, i) => add(`dim@s${i}`, S.dim, s));
   ACC_S.forEach((s, i) => add(`accText@s${i}`, S.accText, s));
@@ -157,7 +164,7 @@ function build(key, sp) {
 }
 
 // ---------- CSS emission ----------
-const ORDER = ['bg', 'panel', 'panel2', 'line', 'fg', 'dim', 'acc', 'acc2', 'btnFg', 'accText', 'ok', 'warn', 'bad', 'btnGoodFg', 'glow', 'h2a', 'h2b', 'codeBg', 'partialBg', 'partialFg', 'fullFg', 'exerBg', 'exerLine', 'exerFg', 'starterBg', 'starterFg', 'msgMe', 'msgAiBg', 'msgAiLine', 'achGotBg', 'toastBg', 'toastFg', 'hintBg', 'hintLine', 'hintFg', 'wboxBg', 'wboxLine', 'wboxFg', 'liveBg', 'liveLine', 'hwglow', 'dayrowHover', 'outOk', 'outErr'];
+const ORDER = ['bg', 'bg2', 'panel', 'panel2', 'line', 'fg', 'dim', 'acc', 'acc2', 'btnFg', 'accText', 'ok', 'warn', 'bad', 'btnGoodFg', 'glow', 'h2a', 'h2b', 'codeBg', 'partialBg', 'partialFg', 'fullFg', 'exerBg', 'exerLine', 'exerFg', 'starterBg', 'starterFg', 'msgMe', 'msgAiBg', 'msgAiLine', 'achGotBg', 'toastBg', 'toastFg', 'hintBg', 'hintLine', 'hintFg', 'wboxBg', 'wboxLine', 'wboxFg', 'liveBg', 'liveLine', 'hwglow', 'dayrowHover', 'outOk', 'outErr'];
 const CSSN = { btnFg: 'btn-fg', accText: 'acc-text', btnGoodFg: 'btn-good-fg', codeBg: 'code-bg', partialBg: 'partial-bg', partialFg: 'partial-fg', fullFg: 'full-fg', exerBg: 'exer-bg', exerLine: 'exer-line', exerFg: 'exer-fg', starterBg: 'starter-bg', starterFg: 'starter-fg', msgMe: 'msg-me', msgAiBg: 'msg-ai-bg', msgAiLine: 'msg-ai-line', achGotBg: 'ach-got-bg', toastBg: 'toast-bg', toastFg: 'toast-fg', hintBg: 'hint-bg', hintLine: 'hint-line', hintFg: 'hint-fg', wboxBg: 'wbox-bg', wboxLine: 'wbox-line', wboxFg: 'wbox-fg', liveBg: 'live-bg', liveLine: 'live-line', hwglow: 'hwglow', dayrowHover: 'dayrow-hover', outOk: 'out-ok', outErr: 'out-err' };
 
 function emit(results) {
